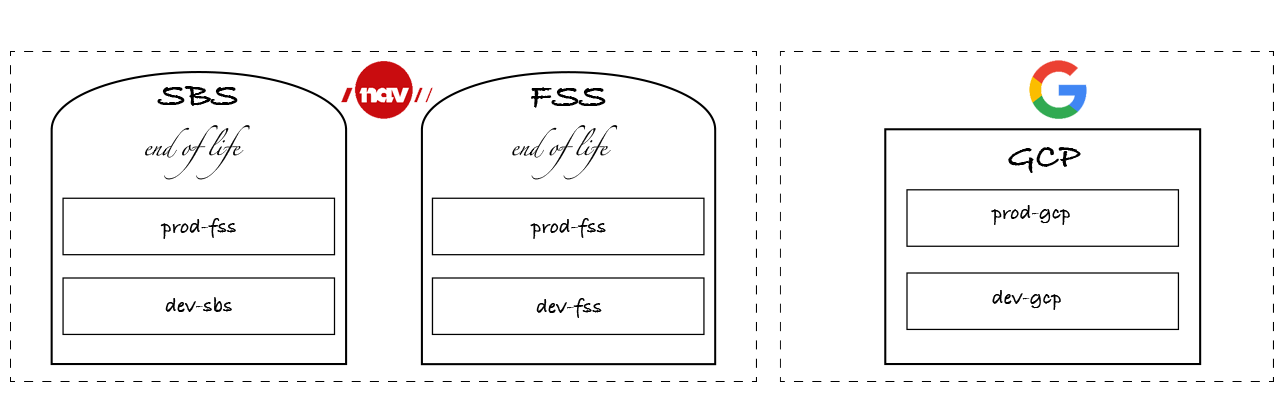
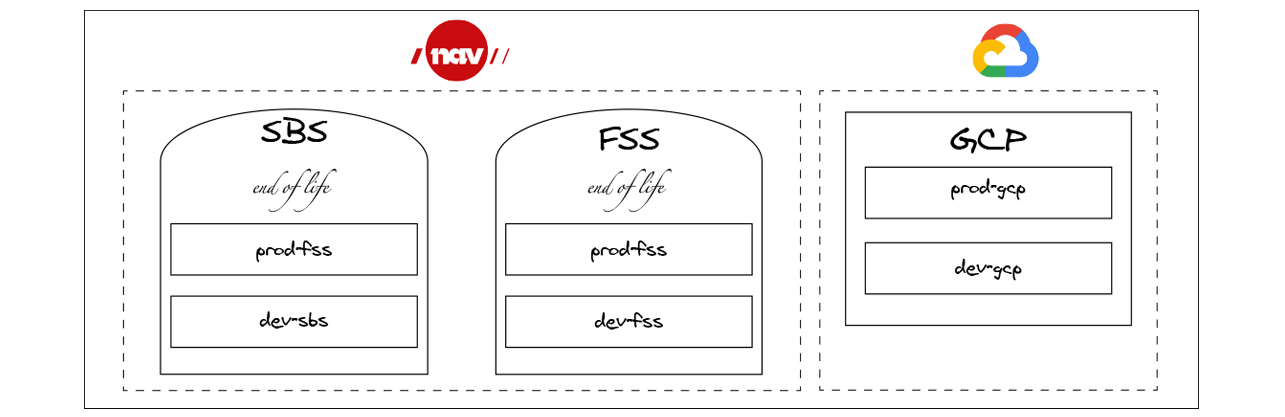
updated graphics

diff --git a/docs/README.md b/docs/README.md
@@ -23,7 +23,7 @@ The services included are (but not limited to) logging, metrics, alerts, deploym
 To make this all happen we leverage open source projects best suited to our needs and provide them with usable abstractions, sane defaults and the required security hardening.
 
 ## Clusters - 🍇
-In ye olde days of yore, NAVs security model was based on network segmentation and zones. (And if we are being honest this still holds true for parts of our operation). Our goal (and strategy) however is to move everything to "Public Cloud". So anything described as on-prem is scheduled to be taken out behind the barn at some point and new app, service or product is destined to exist in (for now) GCP. 
+In ye olde days of yore, NAVs security model was based on network segmentation and zones. (And if we are being honest this still holds true for parts of our operation). Our goal (and strategy) however is to move everything to "Public Cloud". So anything described as on-prem is scheduled to be taken out behind the barn at some point and new apps, services or products are destined to exist in GCP (for now). 
 
 
 ### FSS - 🇰🇵
